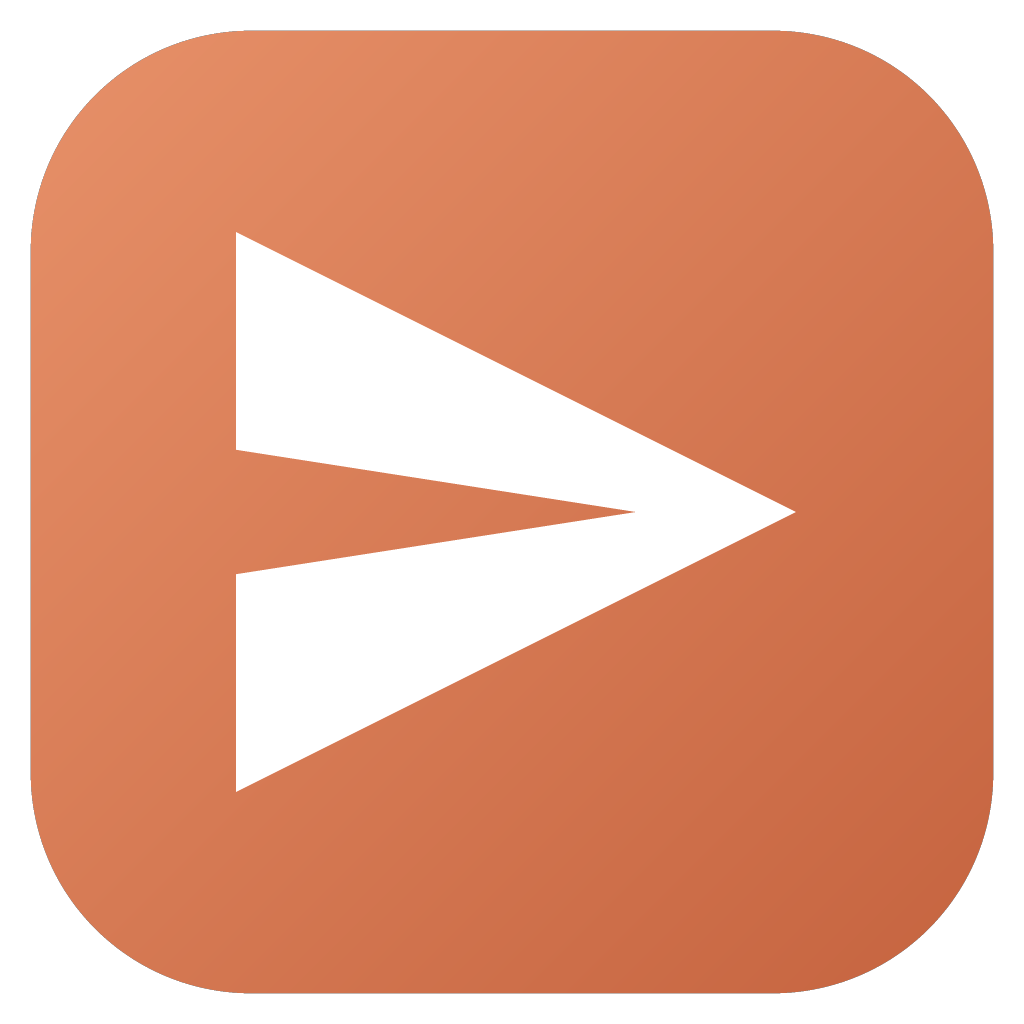
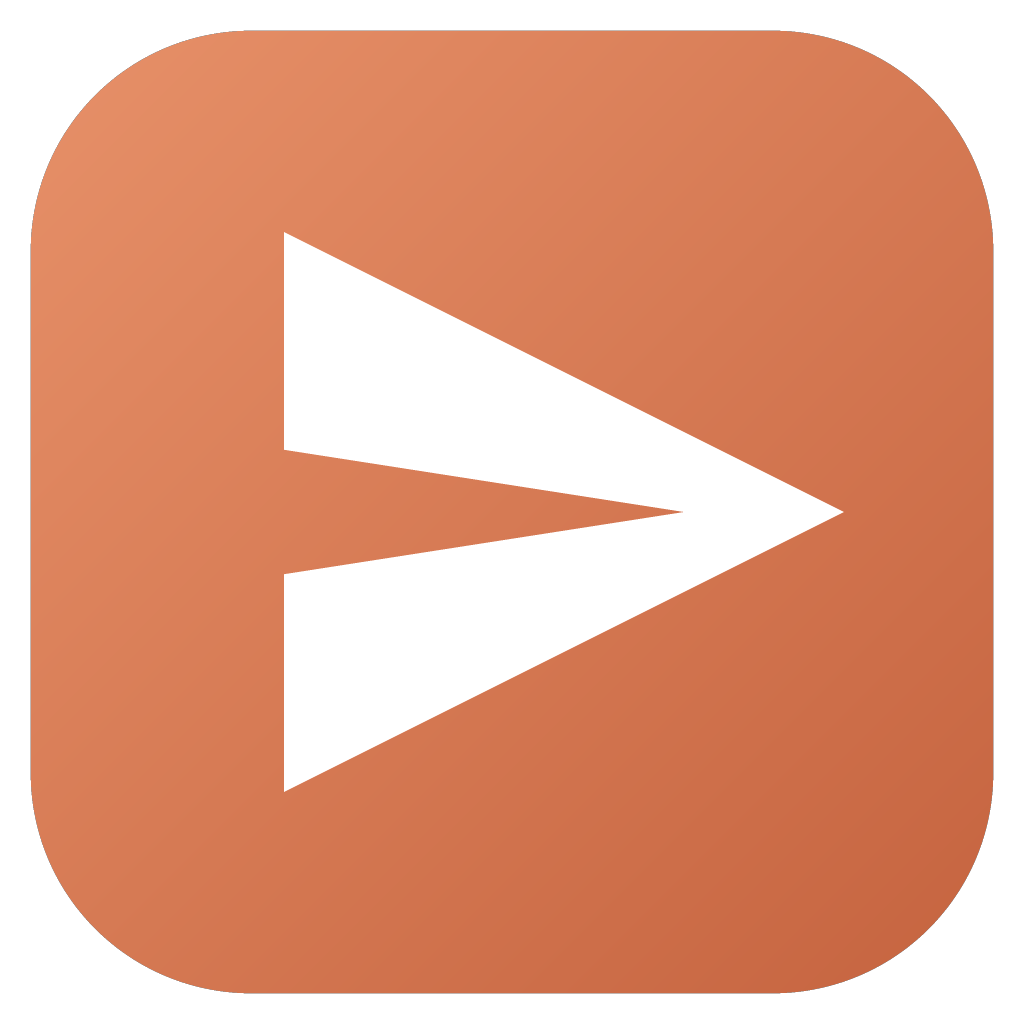
v0.4.2: optical centering for the paper-plane mark
The glyph's area centroid sits ~90px left of the icon center at 1024px
(wide tail, pointed nose); shift it right ~4.7% so the visual weight
balances, and apply the same nudge to the in-app empty-state SVG.

Changed region(s): [[0.2188, 0.2188, 0.8125, 0.7812], [0.4375, 0.4688, 0.6562, 0.5312]]

diff --git a/index.html b/index.html
@@ -94,7 +94,7 @@
           <div id="empty-state">
             <div class="empty-box">
               <div class="empty-logo">
-                <svg viewBox="0 0 24 24" fill="currentColor"><path d="M2.4 20.6l19.2-8.2c.5-.2.5-.9 0-1.1L2.4 3.1c-.4-.2-.9.2-.8.7l2 6.6c.1.3.4.5.7.5l9.2 1-9.2 1c-.3 0-.6.2-.7.5l-2 6.6c-.1.4.4.8.8.6z"/></svg>
+                <svg viewBox="0 0 24 24" fill="currentColor"><g transform="translate(0.9 0)"><path d="M2.4 20.6l19.2-8.2c.5-.2.5-.9 0-1.1L2.4 3.1c-.4-.2-.9.2-.8.7l2 6.6c.1.3.4.5.7.5l9.2 1-9.2 1c-.3 0-.6.2-.7.5l-2 6.6c-.1.4.4.8.8.6z"/></g></svg>
               </div>
               <div class="empty-brand">PDFGist</div>
               <p class="empty-tagline">接入自己大模型的 AI PDF 阅读器</p>

diff --git a/CHANGELOG.md b/CHANGELOG.md
@@ -5,6 +5,12 @@ All notable changes to PDFGist are documented here. Format follows
 
 ## [Unreleased]
 
+## [0.4.2] — 2026-09-29
+
+### Changed
+
+- Optical centering of the paper-plane mark: the glyph is left-heavy (wide tail, pointed nose), so it now sits ~5% right of the bounding-box center in the app icon, favicon and the in-app empty state.
+
 ## [0.4.1] — 2026-09-29
 
 ### Changed
@@ -72,7 +78,8 @@ First release.
 - Cancellable LLM streams (per-request cancellation tokens in the Rust backend)
 - CJK-ready text extraction (PDF.js cmaps and standard fonts bundled)
 
-[Unreleased]: https://github.com/turinglambdaai/pdfgist/compare/v0.4.1...HEAD
+[Unreleased]: https://github.com/turinglambdaai/pdfgist/compare/v0.4.2...HEAD
+[0.4.2]: https://github.com/turinglambdaai/pdfgist/releases/tag/v0.4.2
 [0.4.1]: https://github.com/turinglambdaai/pdfgist/releases/tag/v0.4.1
 [0.4.0]: https://github.com/turinglambdaai/pdfgist/releases/tag/v0.4.0
 [0.3.1]: https://github.com/turinglambdaai/pdfgist/releases/tag/v0.3.1
